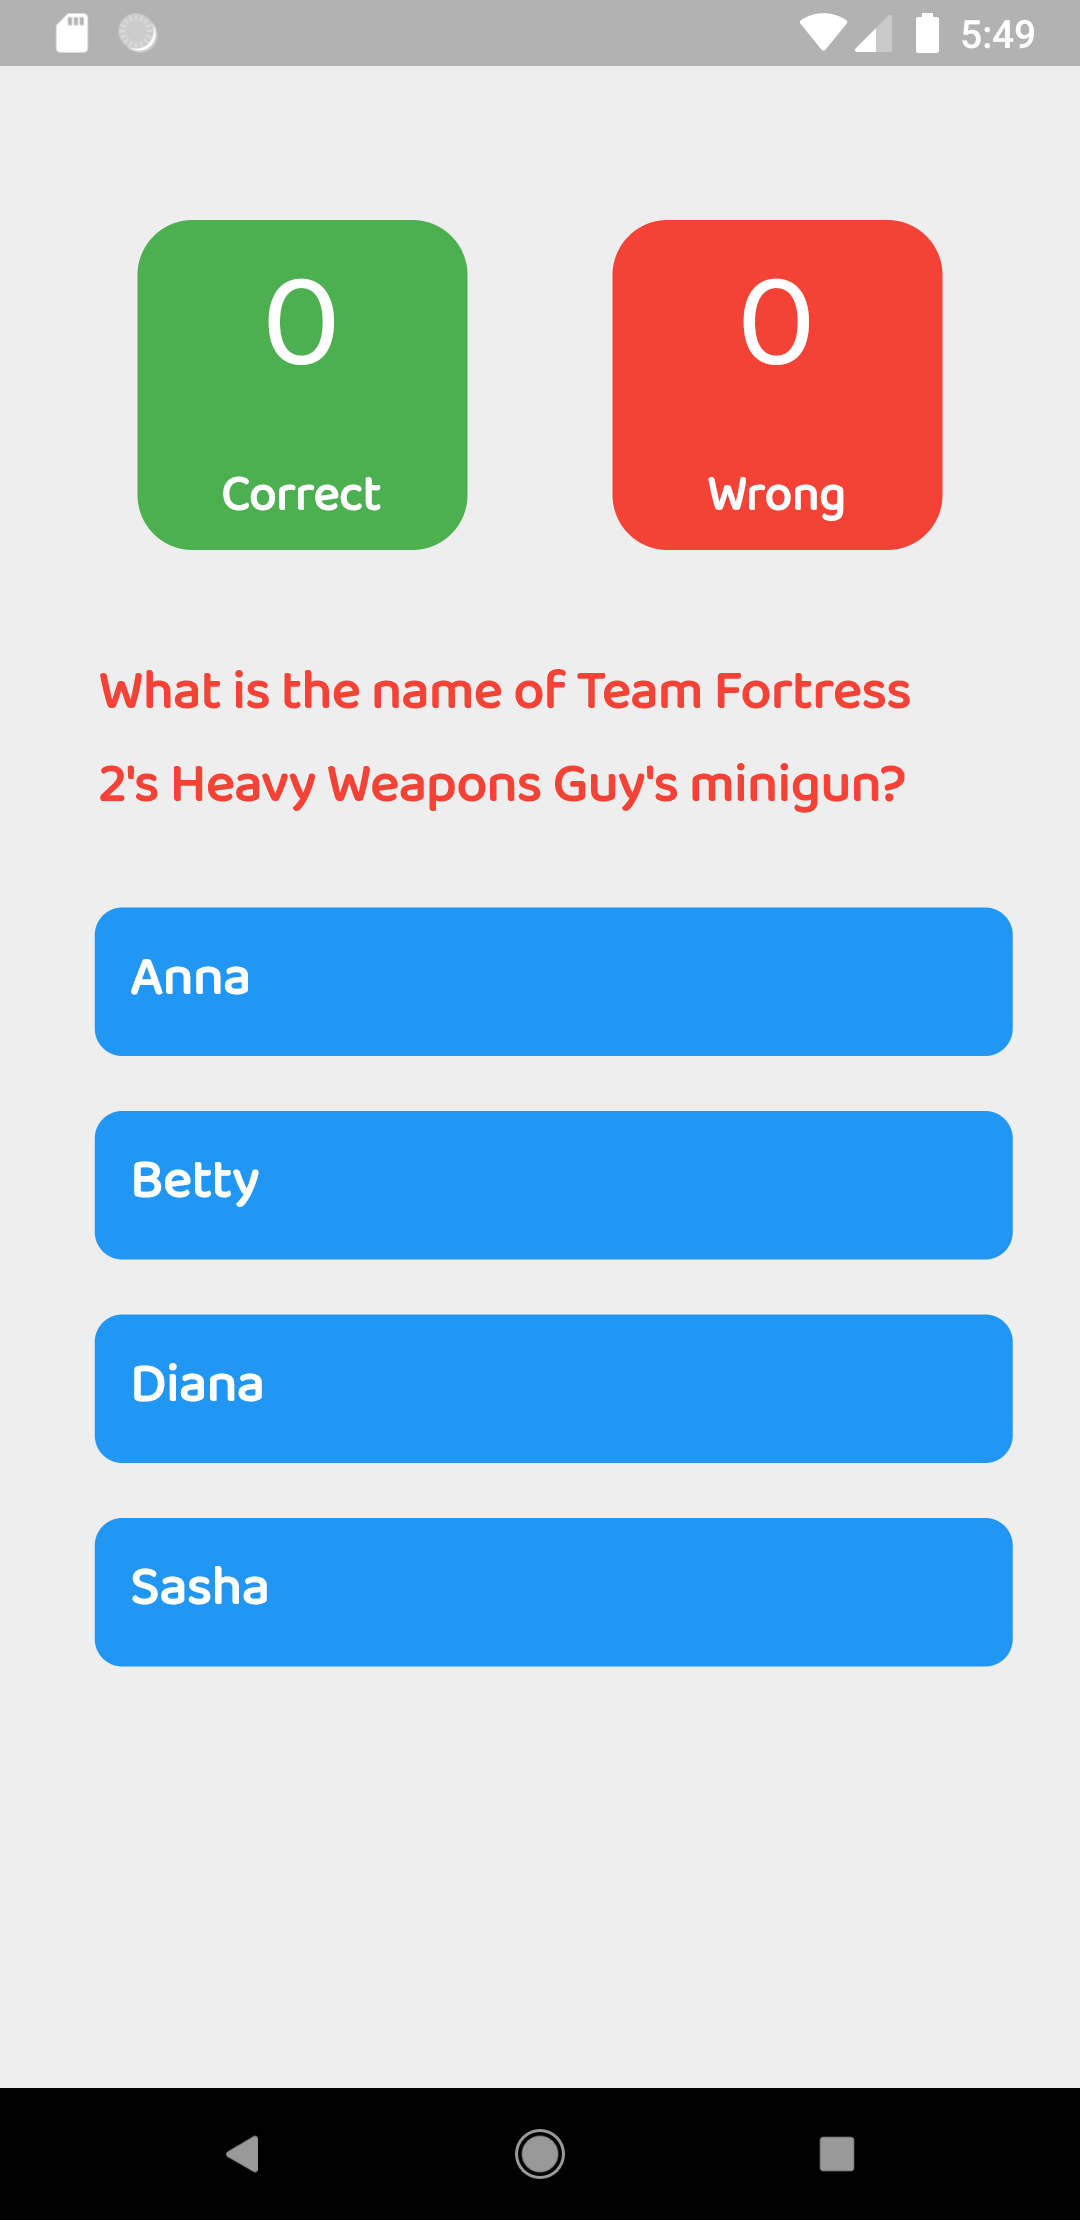
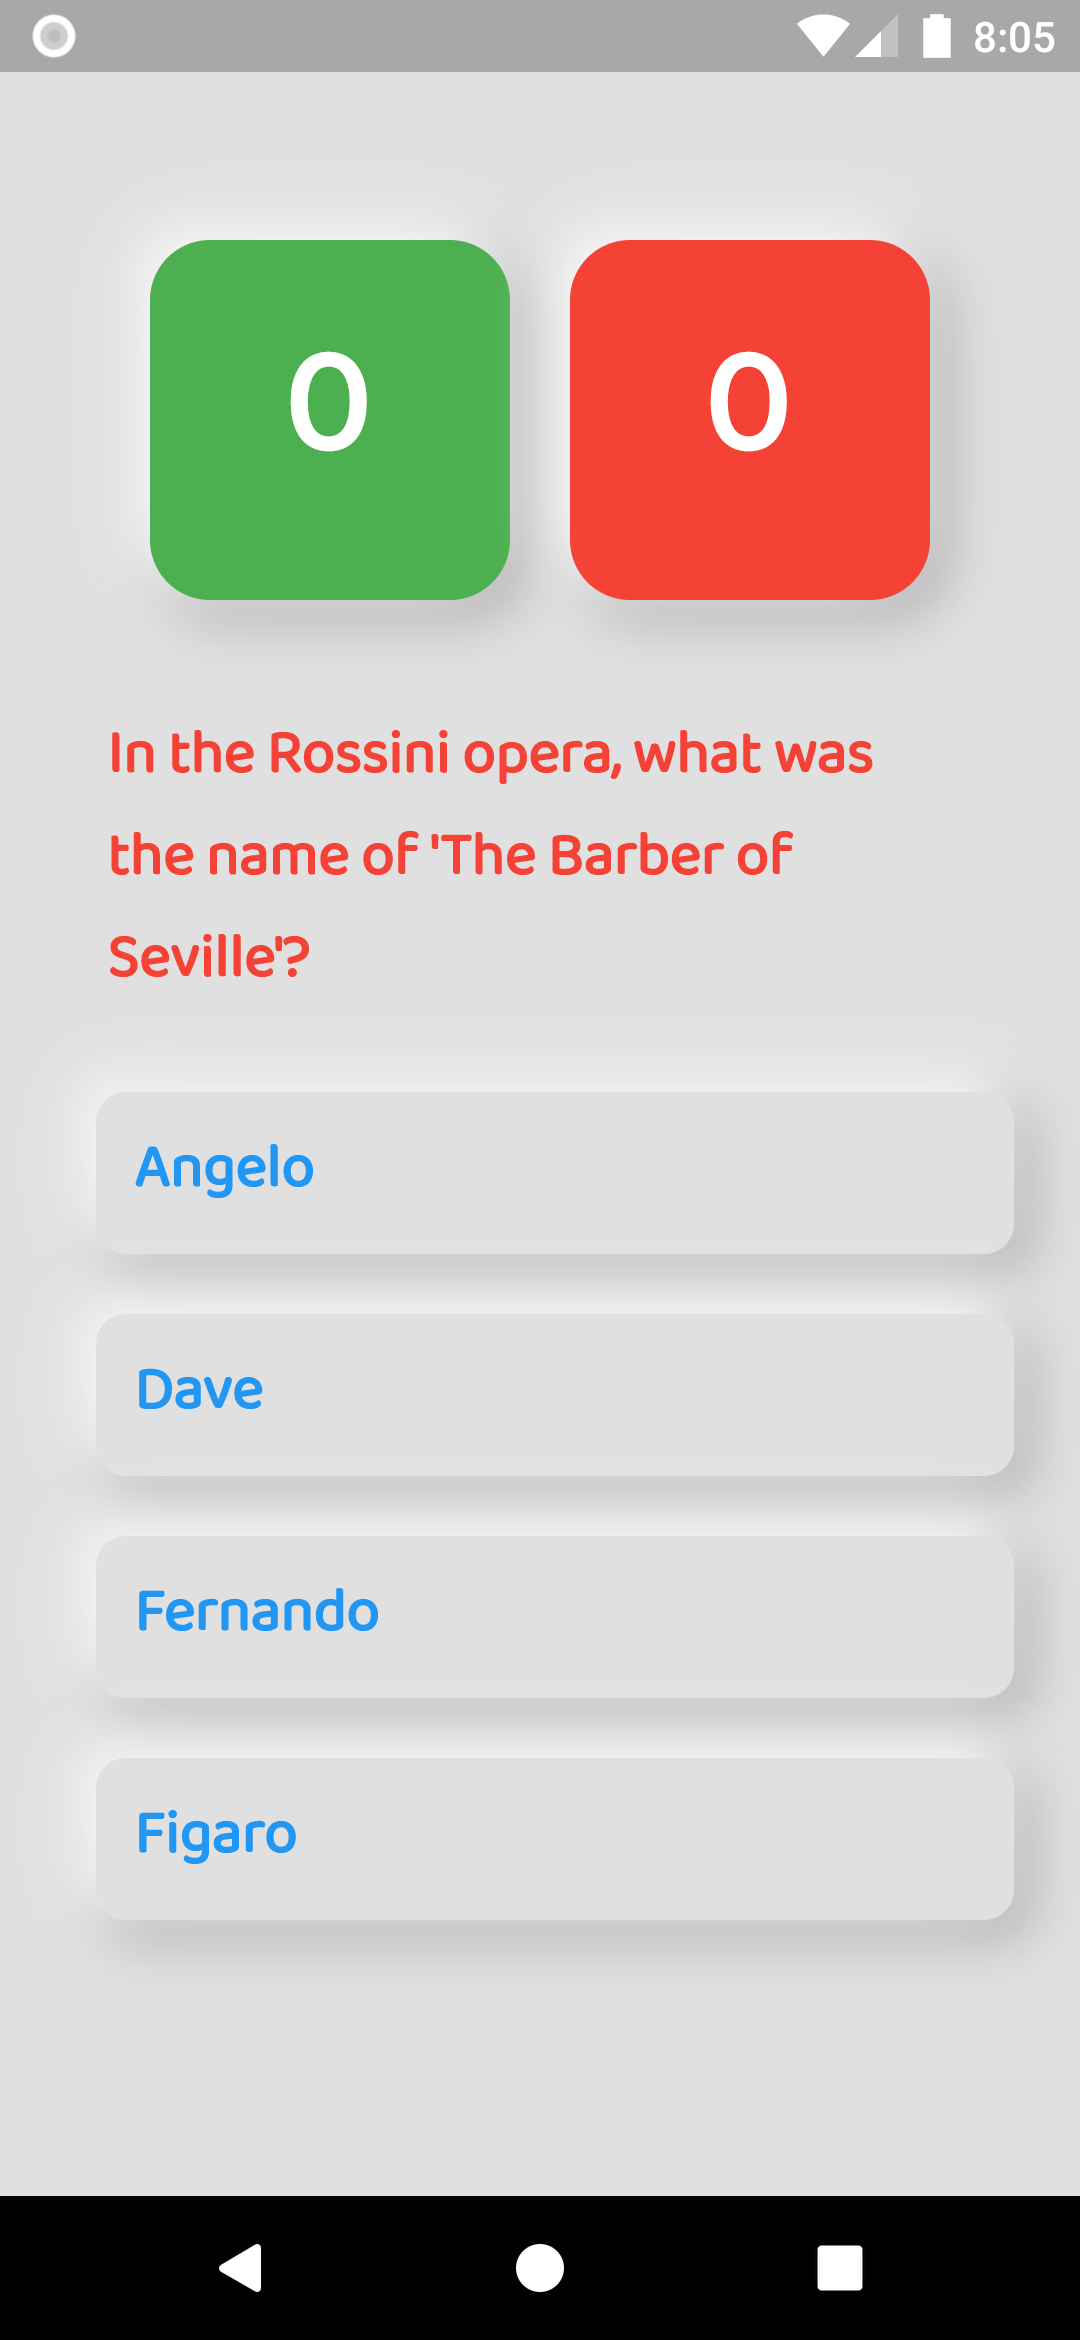
Updated UI and logic corrections

diff --git a/lib/views/quizpage.dart b/lib/views/quizpage.dart
@@ -18,6 +18,7 @@ class _QuizState extends State<Quiz> {
   int correct = 0;
   int wrong = 0;
   bool _loading;
+  bool isAnswered = false;
 
   QuestionBank _questions;
 
@@ -42,7 +43,7 @@ class _QuizState extends State<Quiz> {
           body: Center(child: CircularProgressIndicator()));
     }
     return Scaffold(
-      backgroundColor: Colors.grey[200],
+      backgroundColor: Colors.grey[300],
       body: SingleChildScrollView(
         child: Column(
           children: [
@@ -54,23 +55,30 @@ class _QuizState extends State<Quiz> {
                     width: 120,
                     height: 120,
                     decoration: BoxDecoration(
-                        color: Colors.green,
-                        borderRadius: BorderRadius.circular(20)),
+                      color: Colors.green,
+                      borderRadius: BorderRadius.circular(20),
+                      boxShadow: [
+                        BoxShadow(
+                          color: Colors.grey[500],
+                          offset: Offset(4.0, 4.0),
+                          blurRadius: 15.0,
+                          spreadRadius: 1.0,
+                        ),
+                        BoxShadow(
+                          color: Colors.white,
+                          offset: Offset(-4.0, -4.0),
+                          blurRadius: 15.0,
+                          spreadRadius: 1.0,
+                        ),
+                      ],
+                    ),
                     child: Center(
-                      child: Column(
-                        children: [
-                          Text(
-                            correct.toString(),
-                            style: TextStyle(color: Colors.white, fontSize: 50),
-                          ),
-                          Text(
-                            "Correct",
-                            style: TextStyle(
-                                color: Colors.white,
-                                fontSize: 18,
-                                fontWeight: FontWeight.w900),
-                          ),
-                        ],
+                      child: Text(
+                        correct.toString(),
+                        style: TextStyle(
+                            color: Colors.white,
+                            fontSize: 50,
+                            fontWeight: FontWeight.w900),
                       ),
                     ),
                   ),
@@ -79,23 +87,30 @@ class _QuizState extends State<Quiz> {
                     width: 120,
                     height: 120,
                     decoration: BoxDecoration(
-                        color: Colors.red,
-                        borderRadius: BorderRadius.circular(20)),
+                      color: Colors.red,
+                      borderRadius: BorderRadius.circular(20),
+                      boxShadow: [
+                        BoxShadow(
+                          color: Colors.grey[500],
+                          offset: Offset(4.0, 4.0),
+                          blurRadius: 15.0,
+                          spreadRadius: 1.0,
+                        ),
+                        BoxShadow(
+                          color: Colors.white,
+                          offset: Offset(-4.0, -4.0),
+                          blurRadius: 15.0,
+                          spreadRadius: 1.0,
+                        ),
+                      ],
+                    ),
                     child: Center(
-                      child: Column(
-                        children: [
-                          Text(
-                            wrong.toString(),
-                            style: TextStyle(color: Colors.white, fontSize: 50),
-                          ),
-                          Text(
-                            "Wrong",
-                            style: TextStyle(
-                                color: Colors.white,
-                                fontSize: 18,
-                                fontWeight: FontWeight.w900),
-                          ),
-                        ],
+                      child: Text(
+                        wrong.toString(),
+                        style: TextStyle(
+                            color: Colors.white,
+                            fontSize: 50,
+                            fontWeight: FontWeight.w900),
                       ),
                     ),
                   )
@@ -119,33 +134,64 @@ class _QuizState extends State<Quiz> {
                     children: _questions.questions[i].options
                         .map(
                           (element) => GestureDetector(
-                            onTap: () {
-                              if (element ==
-                                  _questions.questions[i].correctAnswer) {
-                                correct += 1;
-                              } else {
-                                wrong += 1;
-                              }
-                              setState(() {
-                                if (i + 1 < max_questions) {
-                                  i += 1;
-                                } else {
-                                  _showScoreDialog();
-                                }
-                              });
-                            },
+                            onTap: isAnswered
+                                ? null
+                                : () async {
+                                    if (element ==
+                                        _questions.questions[i].correctAnswer) {
+                                      correct += 1;
+                                    } else {
+                                      wrong += 1;
+                                    }
+                                    setState(() {
+                                      isAnswered = true;
+                                    });
+                                    await Future.delayed(
+                                        const Duration(seconds: 2));
+                                    setState(() {
+                                      isAnswered = false;
+                                      if (i + 1 < max_questions) {
+                                        i += 1;
+                                      } else {
+                                        _showScoreDialog();
+                                      }
+                                    });
+                                  },
                             child: Container(
                               margin: EdgeInsets.only(left: 10, bottom: 20),
                               width: MediaQuery.of(context).size.width * 0.85,
                               decoration: BoxDecoration(
-                                  color: Colors.blue,
-                                  borderRadius: BorderRadius.circular(10)),
+                                color: isAnswered
+                                    ? element ==
+                                            _questions
+                                                .questions[i].correctAnswer
+                                        ? Colors.green
+                                        : Colors.red
+                                    : Colors.grey[300],
+                                borderRadius: BorderRadius.circular(10),
+                                boxShadow: [
+                                  BoxShadow(
+                                    color: Colors.grey[500],
+                                    offset: Offset(4.0, 4.0),
+                                    blurRadius: 15.0,
+                                    spreadRadius: 1.0,
+                                  ),
+                                  BoxShadow(
+                                    color: Colors.white,
+                                    offset: Offset(-4.0, -4.0),
+                                    blurRadius: 15.0,
+                                    spreadRadius: 1.0,
+                                  ),
+                                ],
+                              ),
                               padding: EdgeInsets.symmetric(
                                   horizontal: 5, vertical: 2),
                               child: Center(
                                 child: Html(data: element, style: {
                                   "html": Style(
-                                      color: Colors.white,
+                                      color: isAnswered
+                                          ? Colors.white
+                                          : Colors.blue,
                                       fontSize: FontSize(20),
                                       fontWeight: FontWeight.w600),
                                 }),
@@ -182,7 +228,7 @@ class _QuizState extends State<Quiz> {
             "Your score is $correct / $max_questions",
             style: TextStyle(
                 color: Colors.blueGrey,
-                fontSize: 32,
+                fontSize: 28,
                 fontWeight: FontWeight.w900),
           ),
           actions: <Widget>[

diff --git a/lib/views/home.dart b/lib/views/home.dart
@@ -35,7 +35,11 @@ class _HomePageState extends State<HomePage> {
             ),
             Text(
               "Trivia Quiz",
-              style: TextStyle(fontSize: 28, fontWeight: FontWeight.w900),
+              style: TextStyle(
+                color: Colors.blue,
+                fontSize: 28,
+                fontWeight: FontWeight.w900,
+              ),
             ),
             Container(
               margin: EdgeInsets.only(left: 90),
@@ -199,27 +203,45 @@ class _HomePageState extends State<HomePage> {
             Row(
               mainAxisAlignment: MainAxisAlignment.center,
               children: [
-                Container(
-                  decoration: BoxDecoration(
+                GestureDetector(
+                  onTap: () => getQuestions(),
+                  child: Container(
+                    width: 120,
+                    height: 60,
+                    decoration: BoxDecoration(
                       color: Colors.blue,
-                      borderRadius: BorderRadius.circular(10)),
-                  padding: EdgeInsets.symmetric(horizontal: 5, vertical: 2),
-                  alignment: Alignment.bottomCenter,
-                  child: SizedBox(
-                    child: FlatButton(
-                      onPressed: () => getQuestions(),
-                      child: Row(
-                        children: [
-                          Text(
-                            "Start",
-                            style: TextStyle(fontSize: 22, color: Colors.white),
-                          ),
-                          Icon(
-                            Icons.chevron_right,
-                            color: Colors.white,
-                          ),
-                        ],
-                      ),
+                      borderRadius: BorderRadius.circular(50),
+                      boxShadow: [
+                        BoxShadow(
+                          color: Colors.grey[500],
+                          offset: Offset(4.0, 4.0),
+                          blurRadius: 15.0,
+                          spreadRadius: 1.0,
+                        ),
+                        BoxShadow(
+                          color: Colors.white,
+                          offset: Offset(-4.0, -4.0),
+                          blurRadius: 15.0,
+                          spreadRadius: 1.0,
+                        ),
+                      ],
+                    ),
+                    child: Row(
+                      mainAxisAlignment: MainAxisAlignment.center,
+                      children: [
+                        Text(
+                          "Start",
+                          style: TextStyle(
+                              color: Colors.white,
+                              fontSize: 24,
+                              fontWeight: FontWeight.w900),
+                        ),
+                        Icon(
+                          Icons.chevron_right,
+                          color: Colors.white,
+                          size: 32.0,
+                        ),
+                      ],
                     ),
                   ),
                 ),
